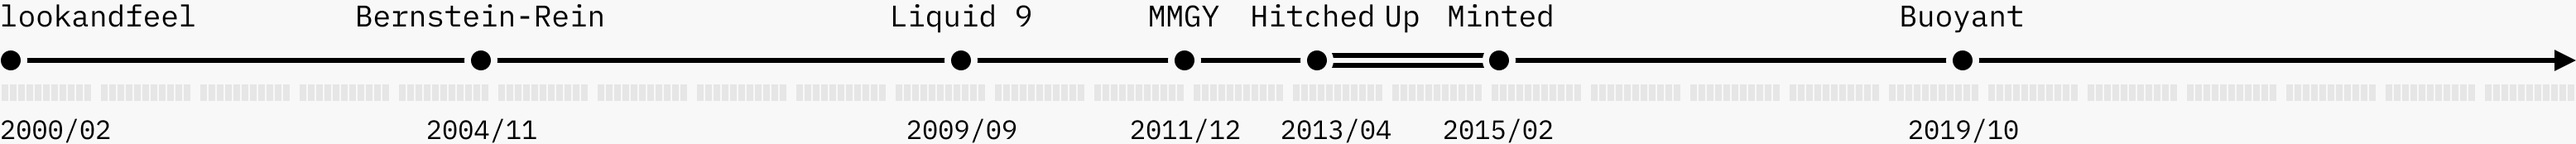
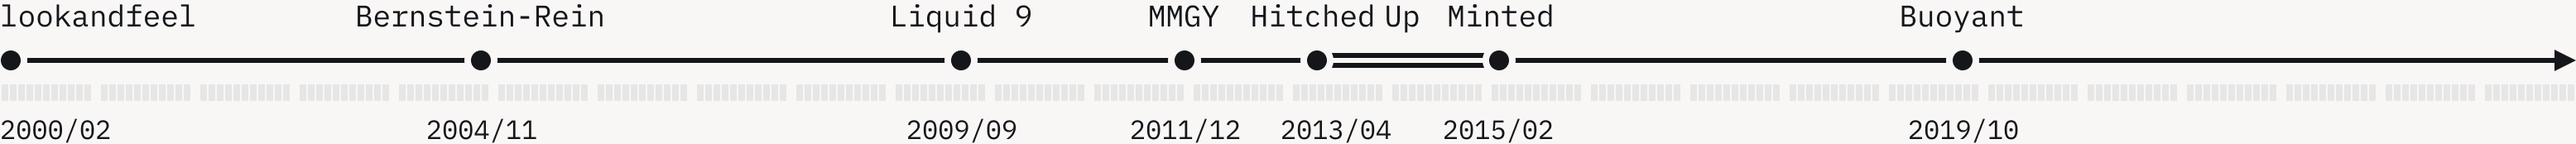
Tweaked colors

diff --git a/layouts/404.html b/layouts/404.html
@@ -2,7 +2,7 @@
   <div class="container-xl">
     <div class="four0four">
       <figure>
-        <img src="/images/sad.svg" alt=":(">
+        {{ readFile "/static/images/sad.svg" | htmlUnescape | safeHTML }}
       </figure>
       <h2>
         The page you're looking for doesn't exist.

diff --git a/assets/scss/_variables.scss b/assets/scss/_variables.scss
@@ -24,9 +24,9 @@ $font-size-h6: 16px;
 // Colors
 
 $white: rgb(255, 255, 255);
-$black: rgb(0, 0, 0);
-$gray-50: rgb(248, 248, 248);
-$highlighter: rgb(233, 255, 50);
+$black: rgb(20, 22, 26);
+$gray-50: rgb(248, 247, 246);
+$highlighter: rgb(242, 232, 25);
 
 // Styles
 

diff --git a/assets/scss/components/_main-logo.scss b/assets/scss/components/_main-logo.scss
@@ -10,6 +10,9 @@
     width: 50px;
     height: 44px;
   }
+  path, rect {
+    fill: currentColor;
+  }
   h1, h2 {
     line-height: $line-height-tight;
   }

diff --git a/assets/scss/components/_404.scss b/assets/scss/components/_404.scss
@@ -9,4 +9,7 @@
     font-weight: $font-weight-light;
     text-align: center;
   }
+  path, rect {
+    fill: currentColor;
+  }
 }
